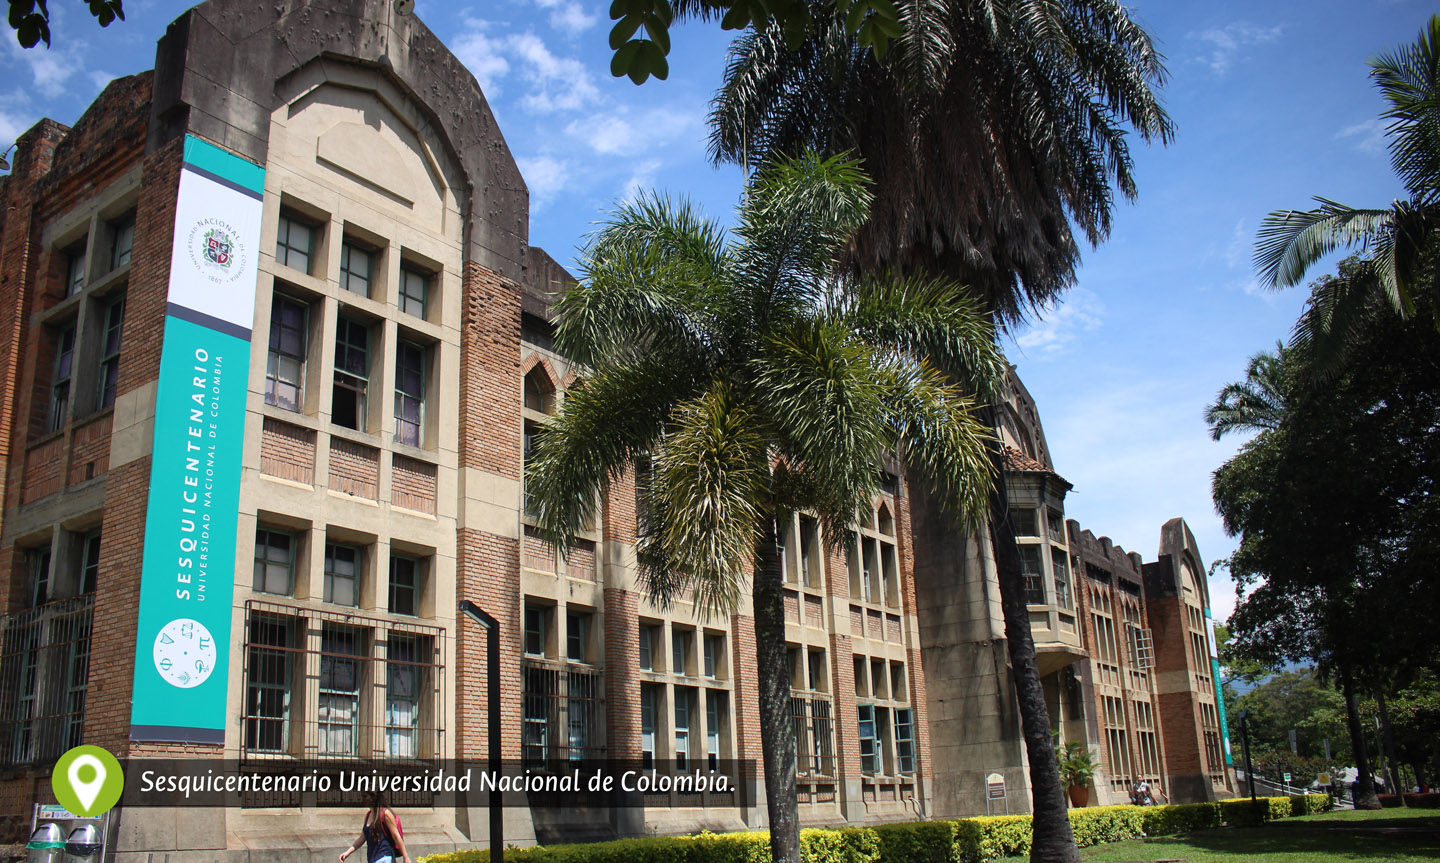
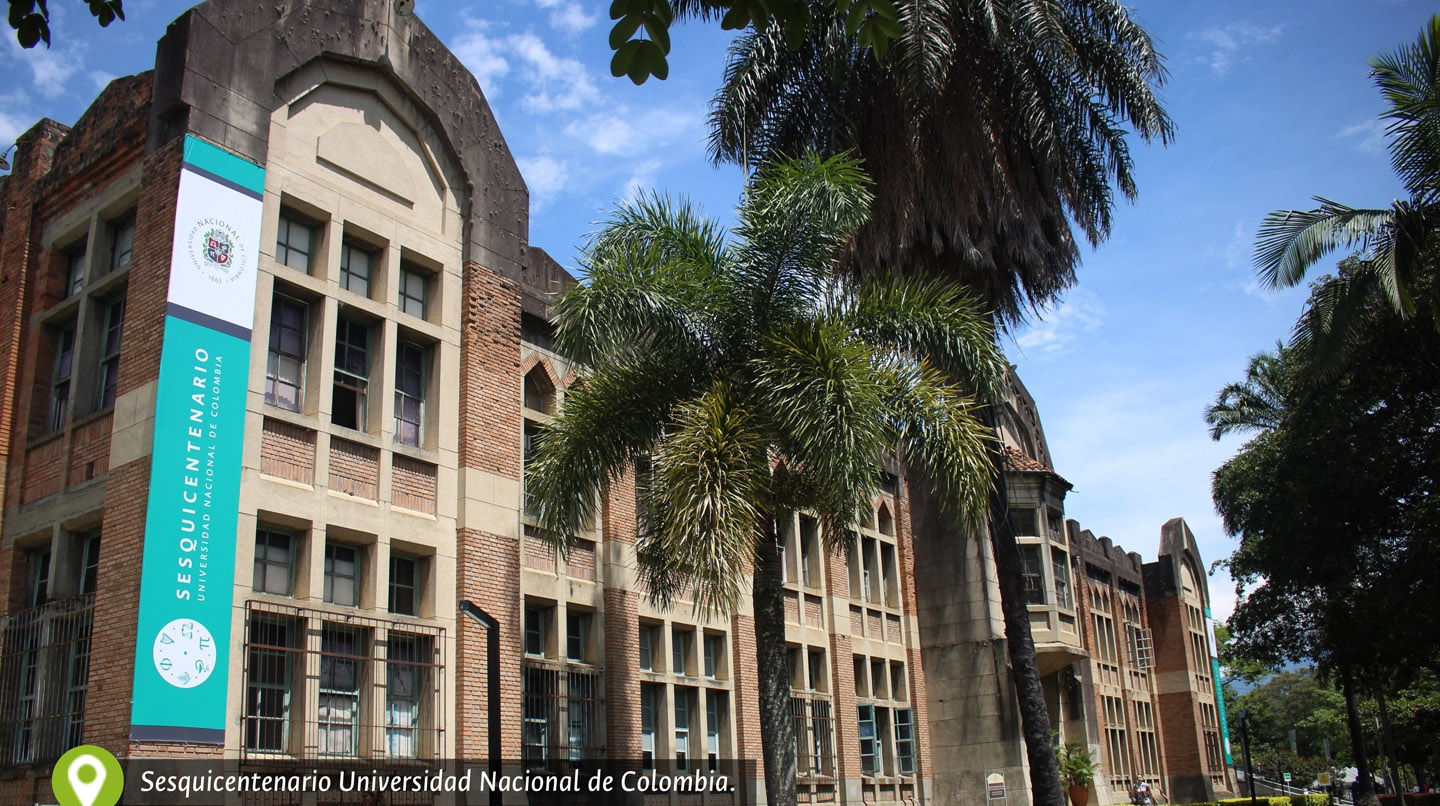
mejorado

diff --git a/index.html b/index.html
@@ -22,7 +22,7 @@
 <script src="site_libs/navigation-1.1/tabsets.js"></script>
 <link href="site_libs/highlightjs-9.12.0/textmate.css" rel="stylesheet" />
 <script src="site_libs/highlightjs-9.12.0/highlight.js"></script>
-<div> <img src="cover.jpg" align="center" width="80%"> </div>
+<div> <img src="cover.jpg" align="center" width="100%"> </div>
 
 <style type="text/css">code{white-space: pre;}</style>
 <style type="text/css">

diff --git a/cover.html b/cover.html
@@ -1,1 +1,1 @@
-<div> <img src="cover.jpg" align="center" width="80%"> </div>
+<div> <img src="cover.jpg" align="center" width="100%"> </div>
